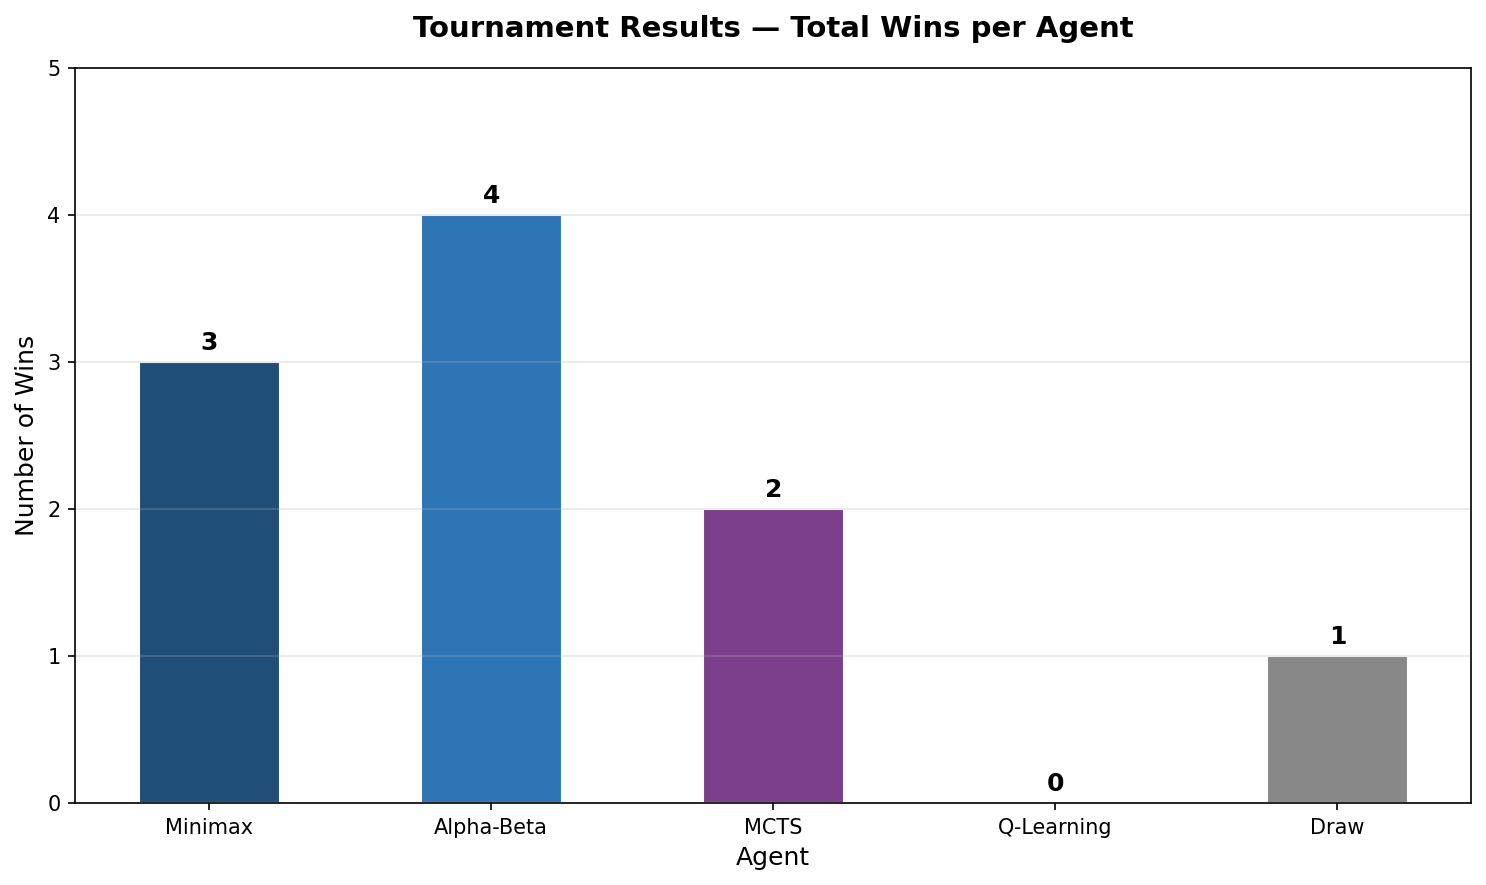
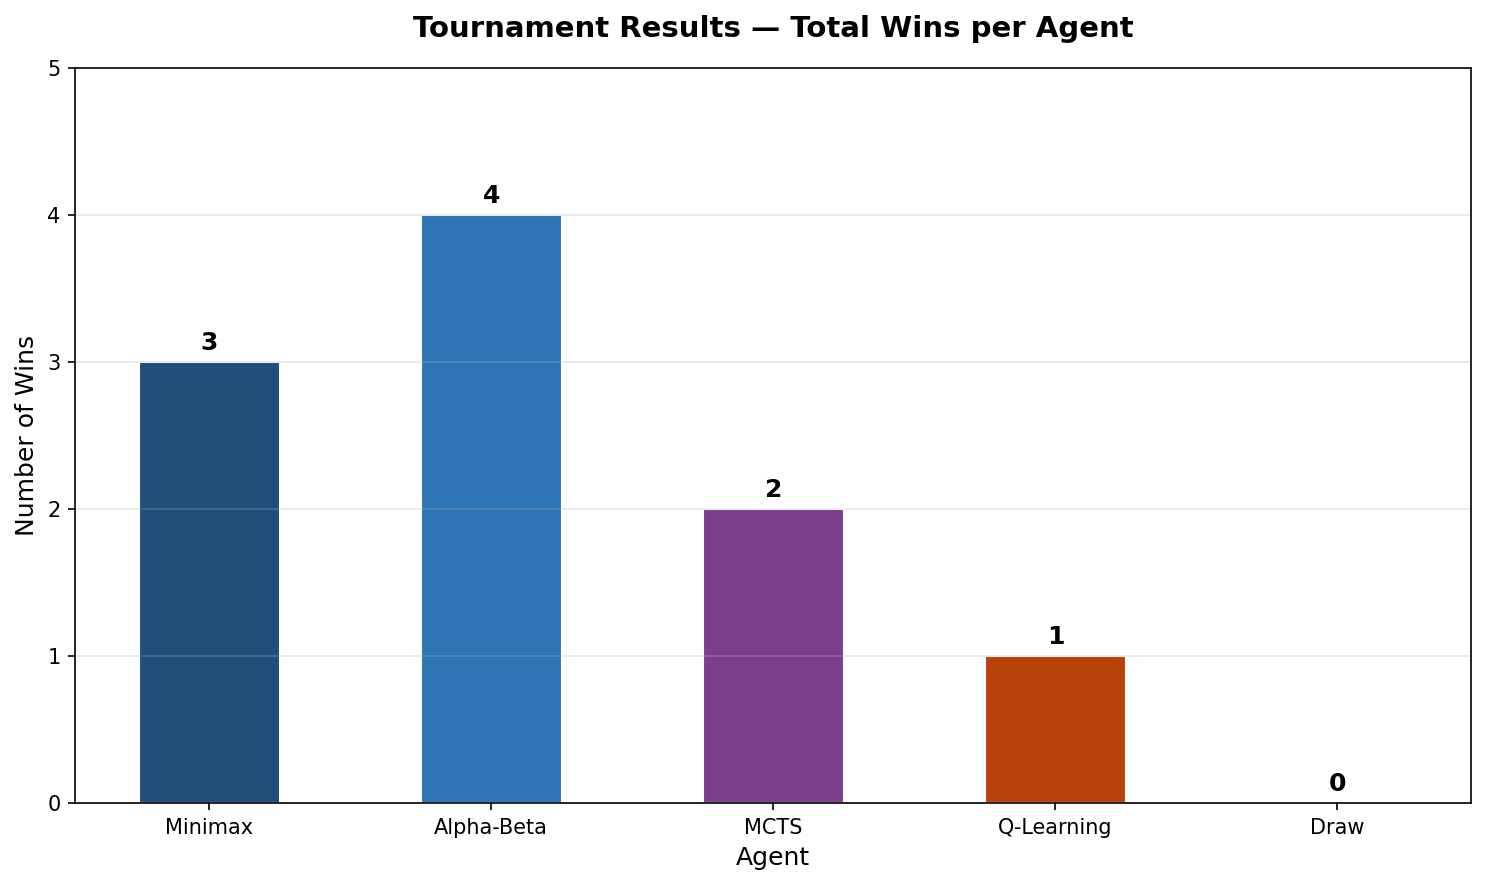
Increased Q-Learning training to 10000 games - Q-table now has 301901 entries - Q-Learning beats Random

Changed region(s): [[0.8358, 0.7017, 0.9596, 0.9153], [0.6501, 0.7322, 0.7739, 0.9153]]

diff --git a/agents/qlearning_agent.py b/agents/qlearning_agent.py
@@ -11,7 +11,7 @@ DISCOUNT_FACTOR = 0.9     # Gamma — importance of future rewards
 EPSILON_START = 1.0       # Start with full exploration
 EPSILON_END = 0.1         # Minimum exploration rate
 EPSILON_DECAY = 0.995     # How fast exploration decreases
-TRAINING_GAMES = 1000     # Number of self-play training games
+TRAINING_GAMES = 10000     # Number of self-play training games
 
 def get_state(board, player):
     """

diff --git a/charts.py b/charts.py
@@ -15,10 +15,10 @@ matchups = [
     'Alpha-Beta\nvs MCTS',
 ]
 
-times = [19.24, 3.59, 89.6, 1.21, 7.04, 71.9, 7.24, 1.96, 61.58, 58.03]
+times = [4.51, 2.89, 63.37, 8.77, 6.56, 61.94, 6.19, 1.81, 51.97, 54.4]
 
 winners = [
-    'Minimax', 'Alpha-Beta', 'MCTS', 'Draw',
+    'Minimax', 'Alpha-Beta', 'MCTS', 'Q-Learning',
     'Alpha-Beta', 'Minimax', 'Minimax',
     'Alpha-Beta', 'MCTS', 'Alpha-Beta'
 ]

diff --git a/main.py b/main.py
@@ -12,7 +12,7 @@ print("=" * 40)
 
 # Train Q-Learning agent first
 print("\nTraining Q-Learning agent...")
-train_qlearning(games=1000)
+train_qlearning(games=10000)
 
 # Game 1 — Minimax vs Random
 print("\nGame 1: Minimax vs Random...")
